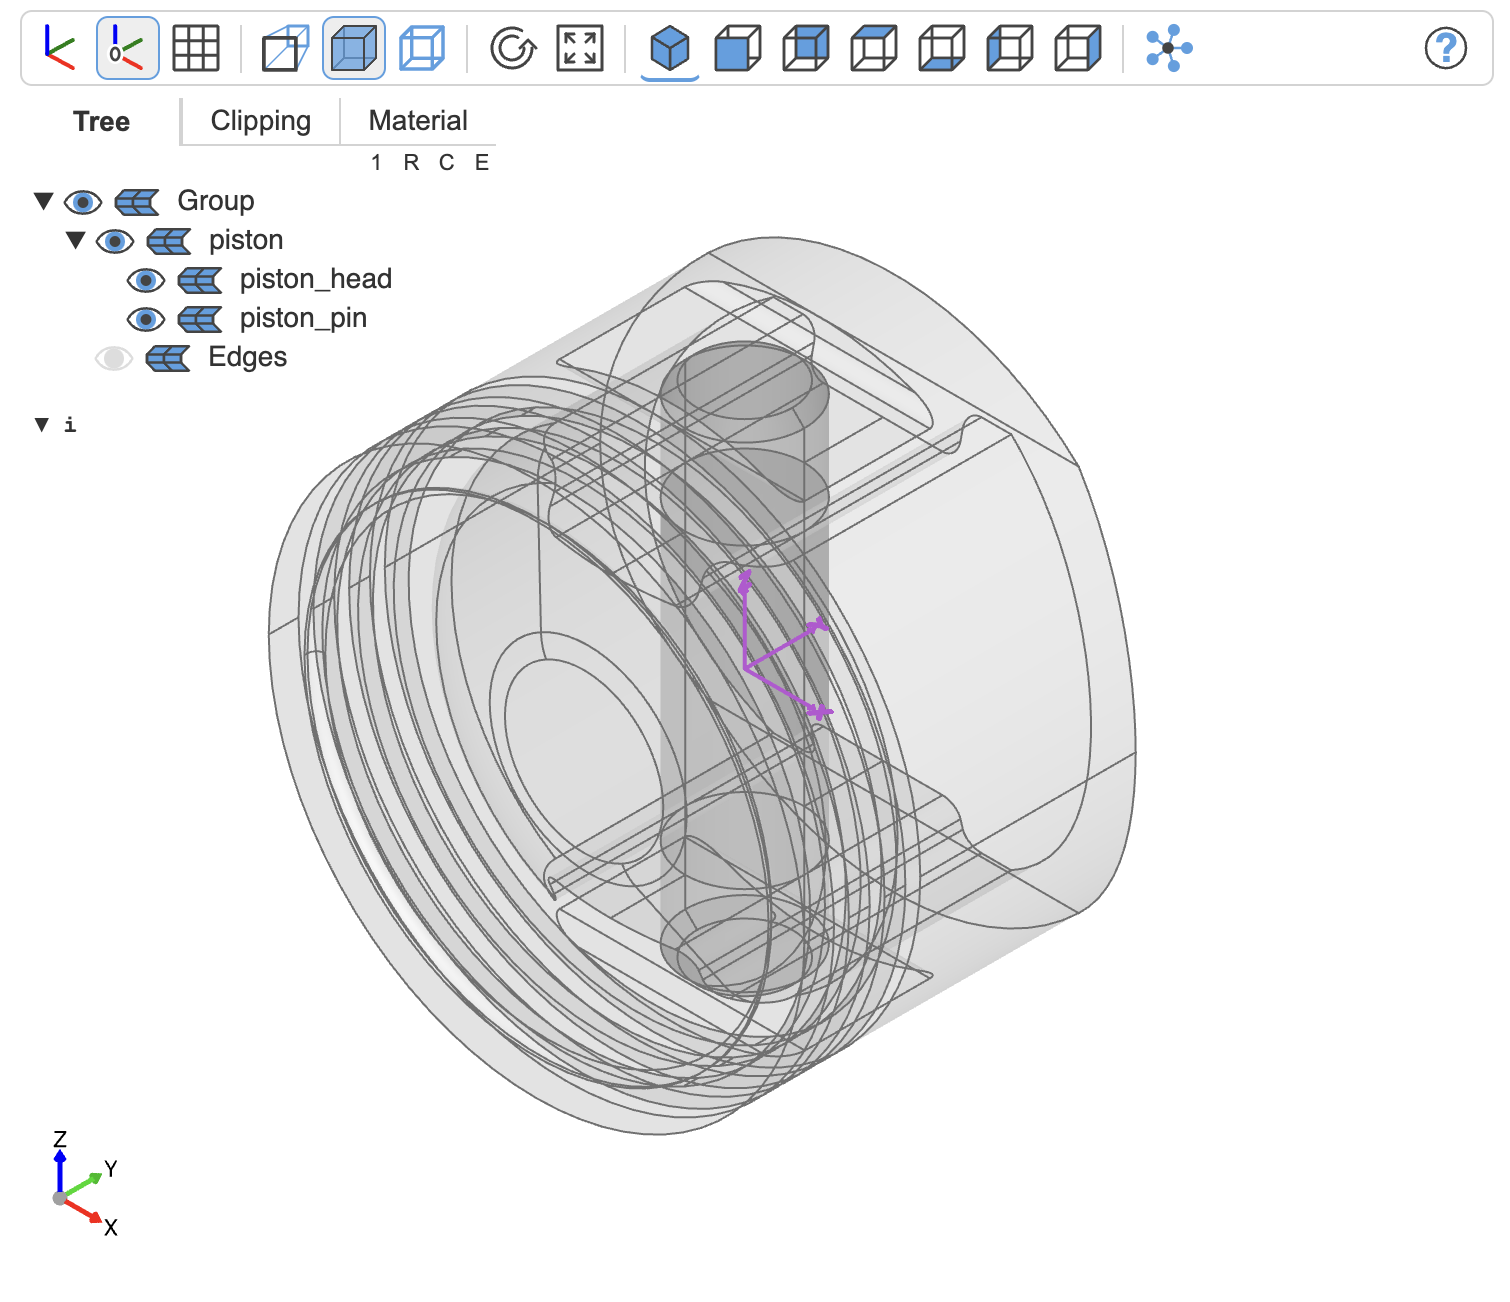
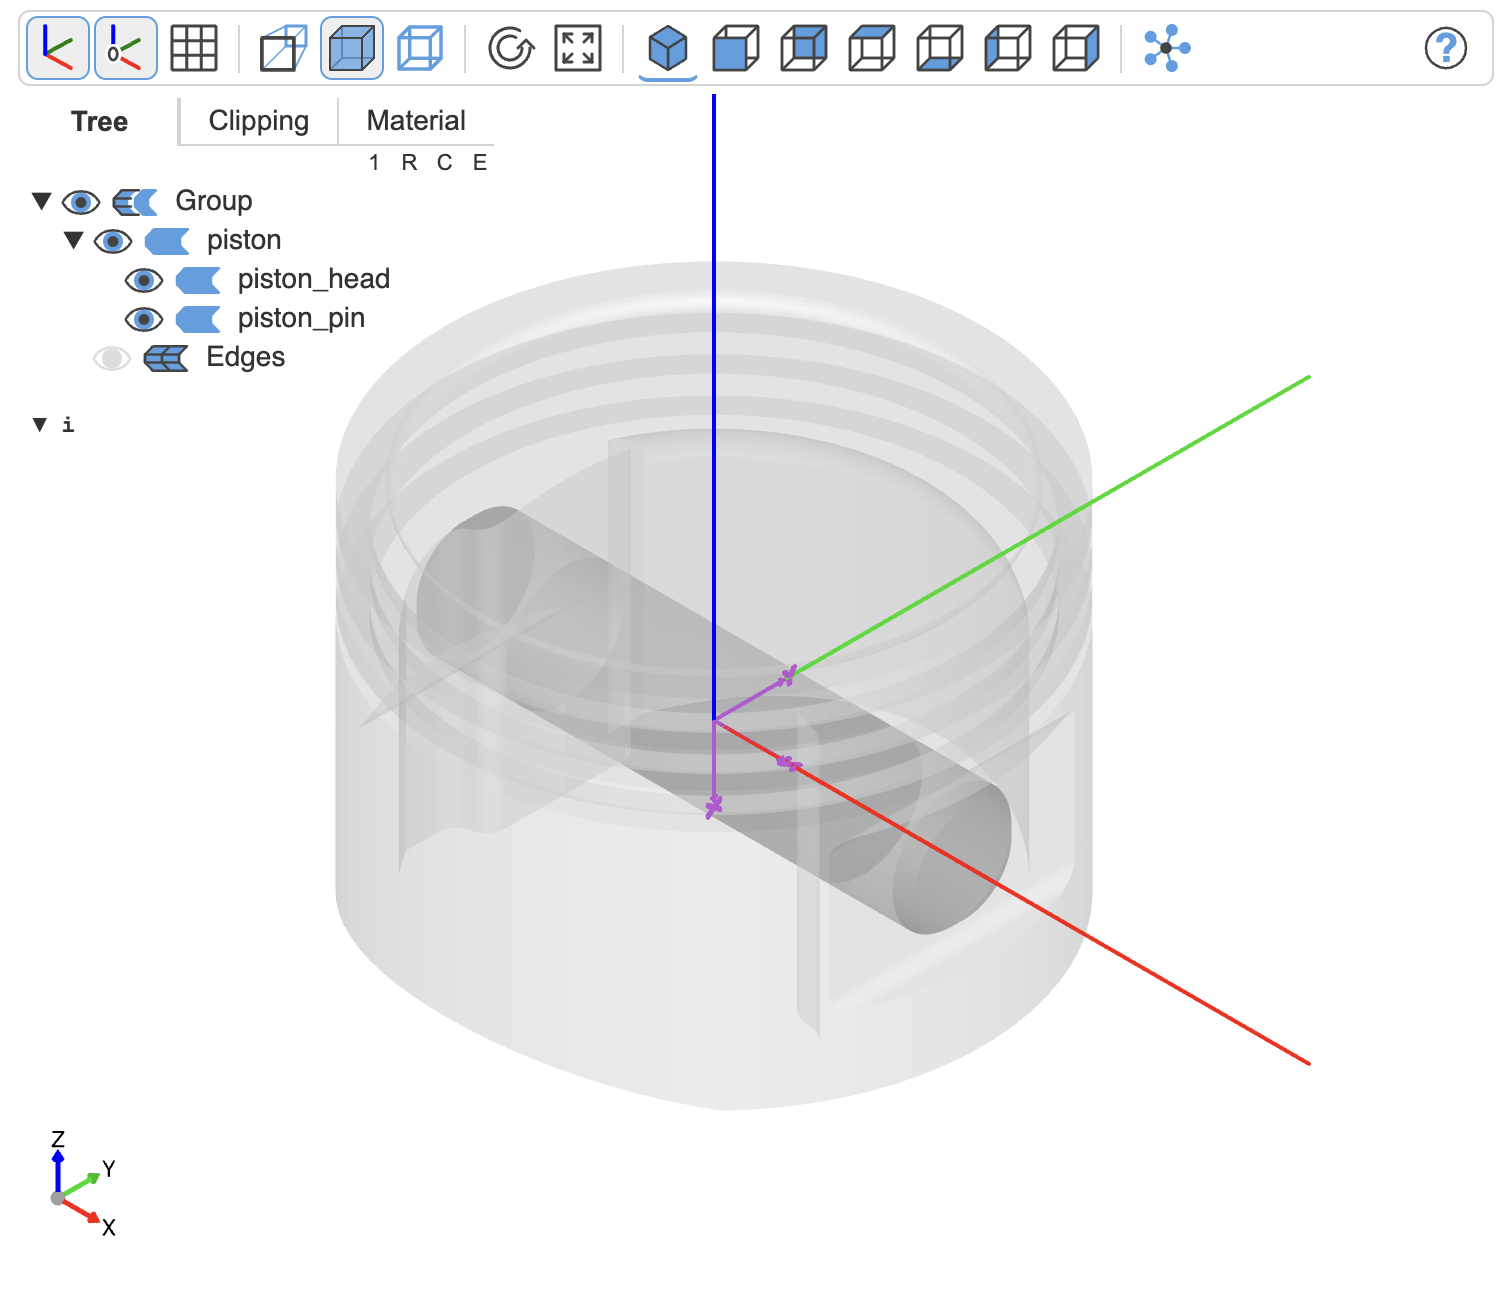
Simplify the engine demo, improve explanations and add keywords to connection tuples

diff --git a/examples/engine.py b/examples/engine.py
@@ -1,4 +1,4 @@
-# %%%
+# %%
 import math
 
 import numpy as np
@@ -52,7 +52,7 @@ e = rod_cap.edges().filter_by(GeomType.CIRCLE).group_by(Axis.Y)[0].sort_by()
 c = (e[2] + e[3]).center()
 loc = Location(list(c), (0, 0, 180))
 
-RigidJoint(label="connect", to_part=rod_con, joint_location=Pos(*c))
+RigidJoint(label="connect", to_part=rod_con, joint_location=Pos(c))
 RigidJoint(label="connect", to_part=rod_cap, joint_location=loc)
 
 rod = AnimationGroup(
@@ -74,19 +74,23 @@ show(rod, j.symbol)
 holes = piston_head.faces().filter_by(GeomType.CYLINDER).group_by()[2]
 r = holes[0].edges().filter_by(GeomType.CIRCLE)[0].radius
 pos = (0, 0, r + holes[0].center().Z)
-loc = Location(pos, (90, 0, 180))
+loc = Location(pos, (0, 0, 90))
 
-RigidJoint(label="connect", to_part=piston_pin, joint_location=Rot(0, 90, 90))
+RigidJoint(label="connect", to_part=piston_pin)
 RigidJoint(label="connect", to_part=piston_head, joint_location=loc)
+
 piston = AnimationGroup(
-    children={
-        "piston_head": clone(piston_head, origin=loc),
-        "piston_pin": clone(piston_pin),
-    },
+    children={"piston_head": piston_head, "piston_pin": piston_pin},
     label="piston",
-    assemble=[("piston_head:connect", "piston_pin:connect")],
+    assemble=[("piston_pin:connect", "piston_head:connect")],
 )
-j = RigidJoint(label="pin", to_part=piston, joint_location=Location())
+
+# ensure z direction is along the cylinder height to fit to the RevoluteJoint
+j = RigidJoint(
+    label="pin",
+    to_part=piston,
+    joint_location=Rot(0, 90, 0) * piston["/piston/piston_pin"].location,
+)
 
 show(piston, j.symbol)
 
@@ -98,7 +102,7 @@ rod_piston = AnimationGroup(
         "piston": clone(piston, origin=Pos(pos)),
     },
     label="rod_piston",
-    assemble=[("rod:center_top", "piston:pin")],
+    assemble=[("rod:center_top", "piston:pin", {"angle": 90})],
 )
 j = RevoluteJoint(label="center_bot", to_part=rod_piston, axis=Axis.Z)
 
@@ -191,7 +195,7 @@ for i in range(4):
     )
     animation.add_track(
         f"/engine/crankshaft/rod_piston_{i}/piston",
-        "rz",
+        "rx",
         time_track,
         normalize_track(piston_track[i]),
     )

diff --git a/bd_animation/animation.py b/bd_animation/animation.py
@@ -1,7 +1,7 @@
 import copy
-import numpy as np
 
 import anytree
+import numpy as np
 from build123d import *
 
 
@@ -30,8 +30,11 @@ class AnimationGroup(Compound):
 
         # Assemble the parts
         # Note: this needs top be done before adding the parts to the Compound
-        for s, t in assemble or []:
-            path, joint_name = s.split(":")
+        for definition in assemble or []:
+            o = definition[0]
+            t = definition[1]
+            kwargs = {} if len(definition) == 2 else definition[2]
+            path, joint_name = o.split(":")
             obj = children[path]
             joint = obj.joints[joint_name]
 
@@ -39,7 +42,7 @@ class AnimationGroup(Compound):
             to_obj = children[to_path]
             to_joint = to_obj.joints[to_joint_name]
 
-            joint.connect_to(to_joint)
+            joint.connect_to(to_joint, **kwargs)
 
         super().__init__(label=label, children=list(children.values()))
 

diff --git a/docs/engine.md b/docs/engine.md
@@ -2,7 +2,7 @@
 
 ## 1 The parts
 
-Firstly, download the [engine step file](https://grabcad.com/library/engine-assembly-77).
+Firstly, download the [engine step file](https://grabcad.com/library/engine-assembly-77) from [grabcad](https://grabcad.com).
 
 Then extract the 6 relevant parts from the step file, see [engine.py](../examples/engine.py):
 
@@ -26,12 +26,13 @@ engine
 ```
 
 - The `piston` animation group combines the `piston_head` and the `piston_pin`. 
-- The `rod` combines the rod connector `rod_con` with the rod cap `rod_cap`. `rod`and `piston` will be connected as `rod_piston` and four of them will be connected to the `crankshaft`.
-- The animation group `crankshaft` contains the object `crankshaft` and the four `piston_rod`s. 
+- The `rod` animation group combines the rod connector `rod_con` with the rod cap `rod_cap`. 
+- `rod`and `piston` will be connected to the `rod_piston` animation group.
+- The animation group `crankshaft` contains the object `crankshaft` and four `piston_rod`s. 
 
 This means:
-- If the animation group `crankshaft` rotates, the object `crankshaft` will rotate, but also the connected `piston_rod`s.
-- The `piston_rod`s need to be rotated around the large hole center, so that the small hole (which will be connected to the `piston`) is aligned with the `engine_block`.
+- If the animation group `crankshaft` rotates, the object `crankshaft` will rotate as well as the connected `piston_rod`s.
+- The `piston_rod`s need to be rotated around the rod's large hole center, so that the small hole (which is connected to the piston) is aligned with the engine block.
 - Finally the piston needs to rotate around the `piston_pin` so that the piston is also aligned with the engine block.
 
 No worries, this will be clearer later.
@@ -44,7 +45,7 @@ No worries, this will be clearer later.
 Add `RigidJoint`s to the rod connector and cap and assemble them:
 
 ```python
-RigidJoint(label="connect", to_part=rod_con, joint_location=Pos(*c))
+RigidJoint(label="connect", to_part=rod_con, joint_location=Pos(c))
 RigidJoint(label="connect", to_part=rod_cap, joint_location=loc)
 
 rod = AnimationGroup(
@@ -53,7 +54,7 @@ rod = AnimationGroup(
     assemble=[("rod_con:connect", "rod_cap:connect")],
 )
 ```
-No further logic needed.
+Given the way the rod connector and rod cap are located, the assembled rod already has the world origin at `(0,0,0)`, hence no further logic needed. This will be needed later for the anmiation.
 
 Next we add a joint to the animation group (details, again, see [engine.py](../examples/engine.py)):
 ```python
@@ -64,37 +65,40 @@ show(rod, j.symbol)
 
 ![rod](./rod.png)
 
-Note: Currently OCP CAD Viewer doesn't show joints of `Compound`s and hence also not of `AnimationGroup`s. Hence the use of `j.symbol` in `show`.
+Note: Currently OCP CAD Viewer doesn't show joints of `Compound`s and hence also not of `AnimationGroup`s: for the time being, use `j.symbol` in `show`.
 
 ### 2.2 The piston animation group
 
 Add `RigidJoint`s to the piston head and pin and assemble them:
 
 ```python
-RigidJoint(label="connect", to_part=piston_pin, joint_location=Rot(0, 90, 90))
+RigidJoint(label="connect", to_part=piston_pin)
 RigidJoint(label="connect", to_part=piston_head, joint_location=loc)
 
 piston = AnimationGroup(
-    children={
-        "piston_head": clone(piston_head, origin=loc),
-        "piston_pin": clone(piston_pin),
-    },
+    children={"piston_head": piston_head, "piston_pin": piston_pin},
     label="piston",
-    assemble=[("piston_head:connect", "piston_pin:connect")],
+    assemble=[("piston_pin:connect", "piston_head:connect")],
 )
 ```
-Since we connect the pin to the head, we will later need to rotate the head. Hence relocate it to the rotation origin `loc`. `loc` is the mass center of the pin, but needs to be applied to the head in this case, details see [engine.py](../examples/engine.py)
 
-Next we add a joint to the animation group (details, again, see [engine.py](../examples/engine.py)):
+Next we add a joint to the animation group. We need to ensure that the z direction of the joint is along the cylinder height to fit to the RevoluteJoint of the rod (see [engine.py](../examples/engine.py)).
+
 ```python
-RigidJoint(label="pin", to_part=piston, joint_location=Location())
+j = RigidJoint(
+    label="pin",
+    to_part=piston,
+    joint_location=Rot(0, 90, 0) * piston["/piston/piston_pin"].location,
+)
 ```
 
 ![piston](./piston.png)
 
+Note the location of the piston animation group: Since the x-axis of the location is along the cylinder height, we later need to rotate around x to rotate the piston "around the pin".
+
 ### 2.4 Rod connected to piston animation group
 
-This time we already have the joints, they have been assigned to the involved animation groups earlier (see above).
+This time we already have the joints, they have been assigned to the involved animation groups earlier (see above). However, we need to provide an angle to correctly rotate the piston around revolute joint of the rod.
 
 ```python
 rod_piston = AnimationGroup(
@@ -103,7 +107,7 @@ rod_piston = AnimationGroup(
         "piston": clone(piston, origin=Pos(pos)),
     },
     label="rod_piston",
-    assemble=[("rod:center_top", "piston:pin")],
+    assemble=[("rod:center_top", "piston:pin", {"angle": 90})],
 )
 ```
 
@@ -115,13 +119,15 @@ RevoluteJoint(label="center_bot", to_part=rod_piston, axis=Axis.Z)
 
 ![rod piston](./rod_piston.png)
 
+As can be seen, both the revolute joint and the location of the assembly are at the center of the large hole of the rod and the z-axis is orthogonal to the xy-plane. This is needed later for rotation this animation group around their location on the crankshaft.
+
 ### 2.5 The crankshaft animation group
 
 Add `RigidJoint`s to the crankshaft as connectors for the `piston_rod` animation group:
 
 ![crankshaft](./crankshaft.png)
 
-Given these four joints, we can assemble the `rod_piston`s to the crankshaft:
+Given these four joints (`pin_0`, ..., `pin_3`), we can assemble the `rod_piston`s to the crankshaft:
 
 ```python
 children = {"crankshaft": clone(crankshaft)}
@@ -198,13 +204,13 @@ for i in range(4):
 ```
 ![engine animation crankshaft and rod](./engine2.gif)
 
-Finally align the pistons:
+Finally align the pistons to the engine block. As mentioned above, we this time need to rotate around the x-axis:
 
 ```python
 for i in range(4):
     animation.add_track(
         f"/engine/crankshaft/rod_piston_{i}/piston",
-        "rz",
+        "rx",
         time_track,
         normalize_track(piston_track[i]),
     )

diff --git a/README.md b/README.md
@@ -45,6 +45,8 @@ The `bd_animation` library provides one class and two helper functions:
 
       The generic pattern is `path:joint_name`. In a hierarchical `AnimationGroup`, `path` will be the path of object names from root down to the object, e.g. `"/hexapod/left_leg/upper_leg"`. The leading `/` can be omitted. The class ensures that the objects are connected _before_ they get added to the `build123d.Compound` (current build123d restriction).
 
+      Additionally, a dict like `{"angle": 90}` can be provided, it will be passed to `build123d.Joints.connect_to` as is.
+
       **Notes:**
 
       - `AnimationGroup` defines `__getitem__` and as such allows to reference an object in a hierachical `AnimationGroup` as `hexapod["/hexapod/left_leg/upper_leg"]`
